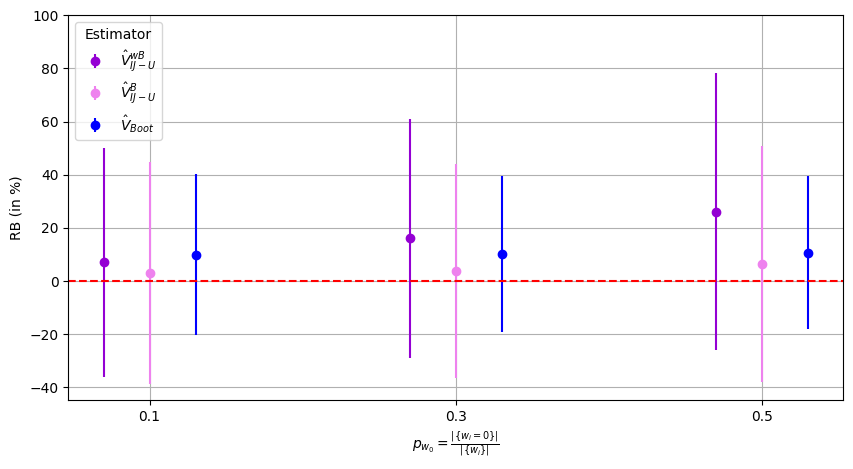
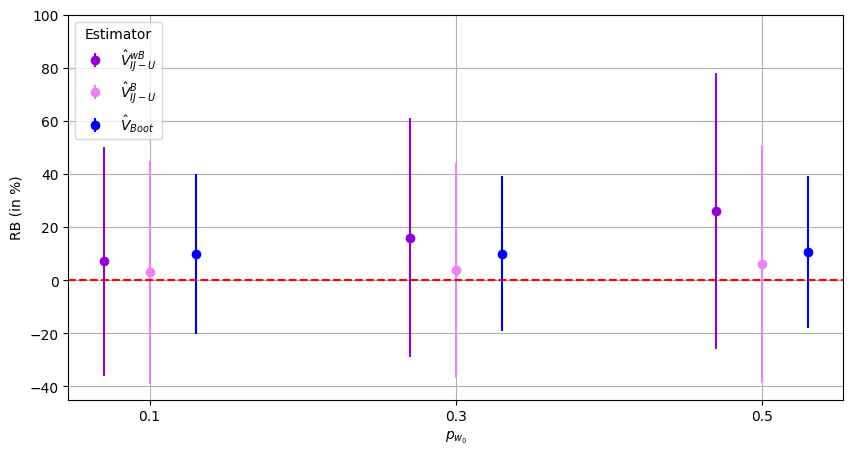
figure anpassung an beschriftung

diff --git a/Paper_abgabe/simulation_study/utils.py b/Paper_abgabe/simulation_study/utils.py
@@ -694,7 +694,7 @@ def plot_var_bias_without_u2(exp_save_path, y1=None, y2=None,patient=''):
     plt.axhline(y=0, color='red', linestyle='--')
     plt.grid(True)
     plt.xticks(weights_zero)
-    plt.xlabel(r'$p_{w_0} = \frac{|\{w_i = 0\}|}{|\{w_i\}|}$')
+    plt.xlabel(r'$p_{w_0}$')
     plt.ylabel("RB (in %)")
     plt.legend(title='Estimator', loc='upper left')
     plt.ylim(y1, y2)